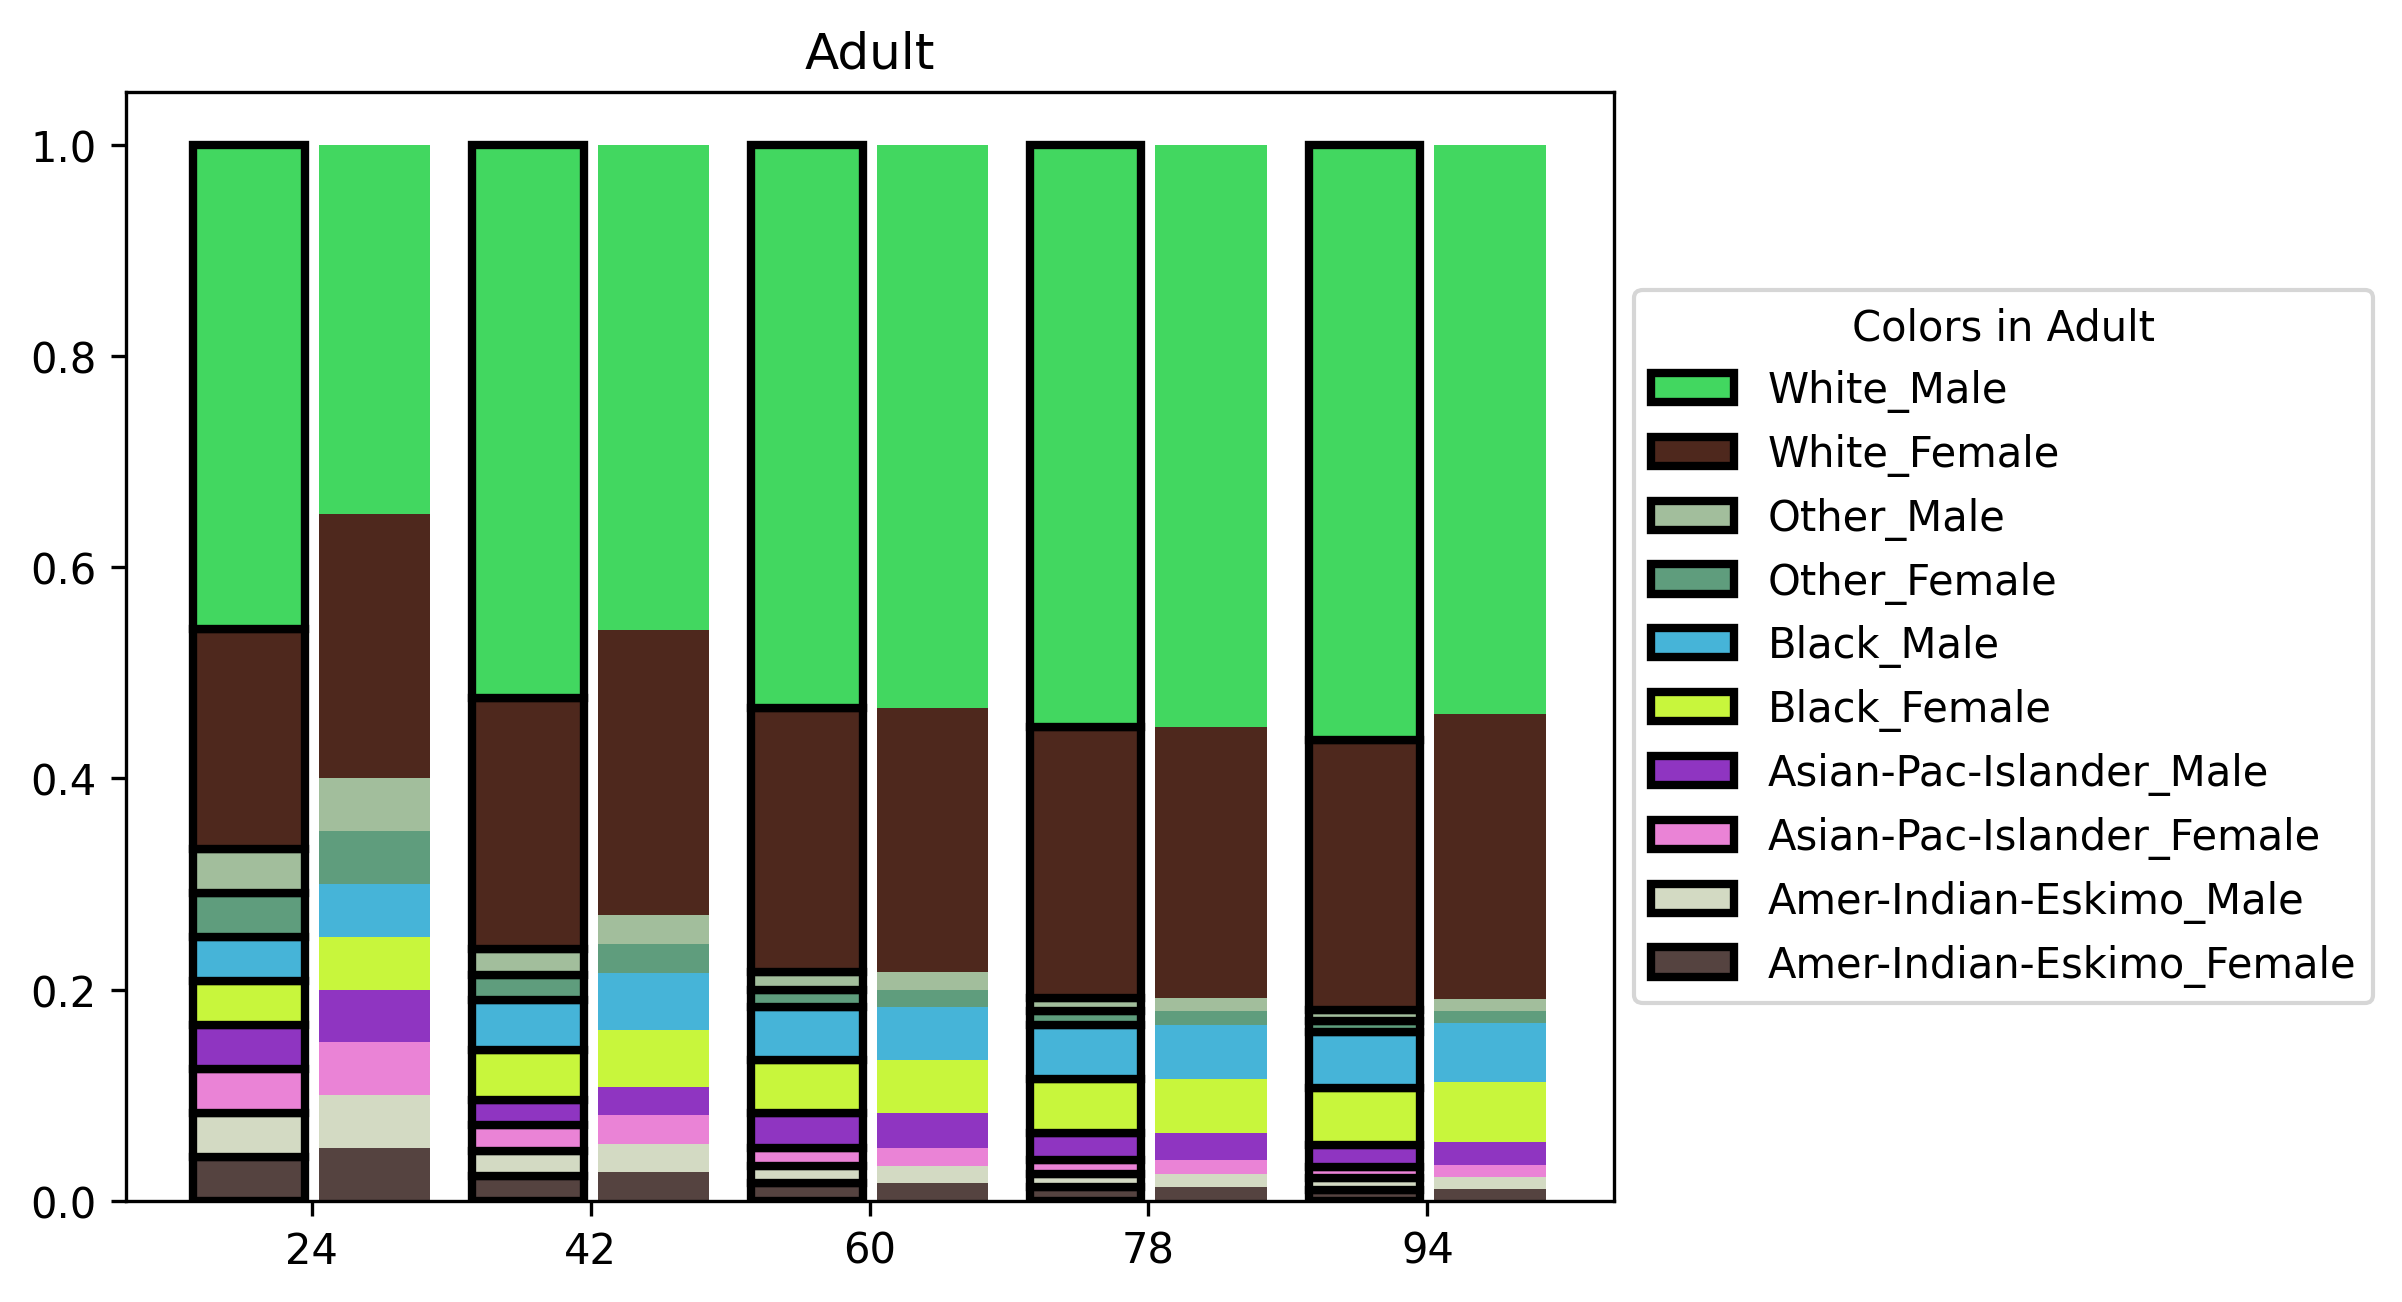
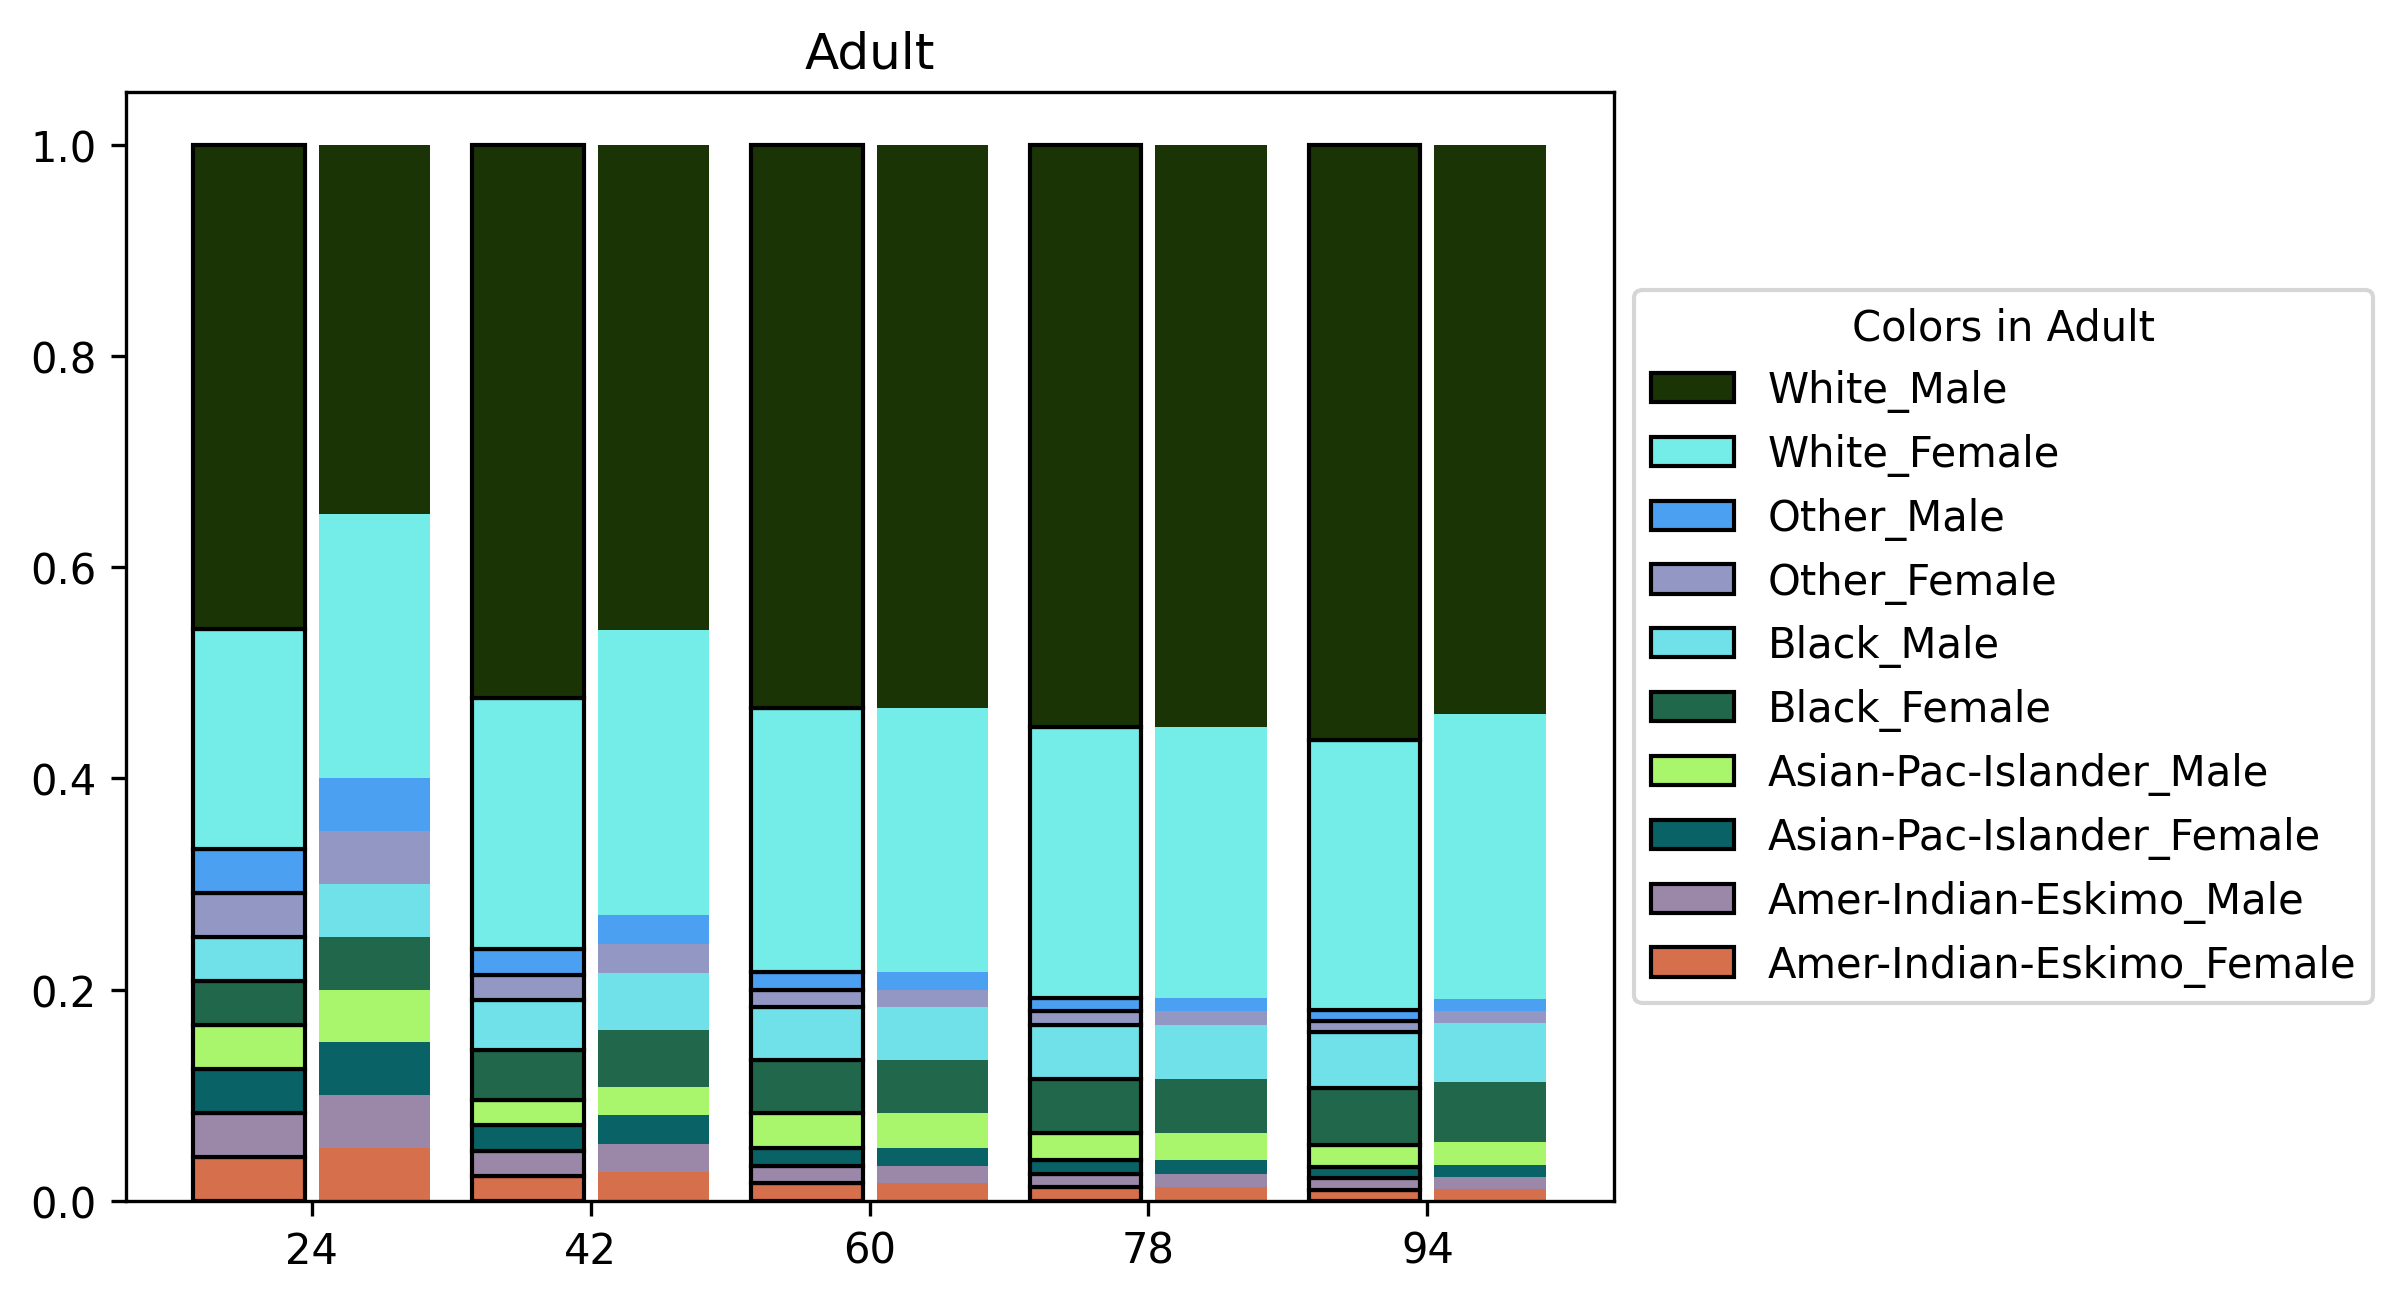
thinner border

diff --git a/plot_k.py b/plot_k.py
@@ -207,7 +207,7 @@ def plot_color_results(algorithm):
         bottom = np.zeros(len(ks))
         ind = np.arange(len(ks))
         for color in required_counts:
-            ax.bar(ind, required_counts[color], width, label=color, bottom=bottom, color = color_mappings[dataset][color], edgecolor='black', linewidth = 2)
+            ax.bar(ind, required_counts[color], width, label=color, bottom=bottom, color = color_mappings[dataset][color], edgecolor='black', linewidth = 1)
             bottom += required_counts[color]
         
         bottom = np.zeros(len(ks))
